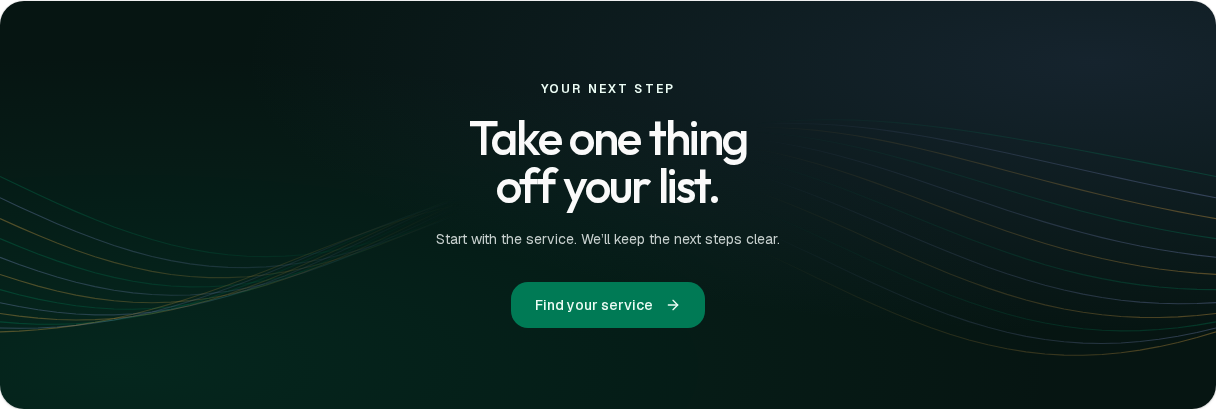
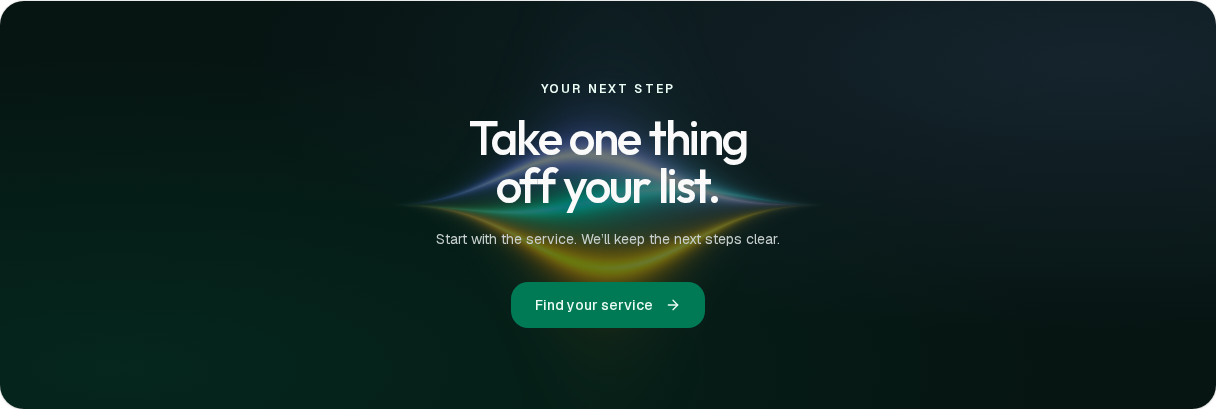
docs: audit full-stack requirements and record component acceptance

diff --git a/docs/full-stack-review.md b/docs/full-stack-review.md
@@ -1,0 +1,92 @@
+# Full-stack delivery review
+
+Reviewed 10 October 2026 against all three official frontend files and all four
+official backend files, then compared with the current repositories and recorded
+hosted acceptance. This is a completion review, not a claim of a fresh full-suite
+browser run or a submitted deliverable.
+
+## Sources and interpretation
+
+- [Frontend overview and mandatory rules](https://github.com/Apollo-Level2-Web-Dev/B7A7/blob/main/README.md)
+- [Frontend detailed requirements](https://github.com/Apollo-Level2-Web-Dev/B7A7/blob/main/project-requirements.md)
+- [Frontend delivery timeline](https://github.com/Apollo-Level2-Web-Dev/B7A7/blob/main/timeline-breakdown.md)
+- [Backend mandatory rules](https://github.com/Apollo-Level2-Web-Dev/B7A6/blob/main/README.md)
+- [Backend detailed requirements](https://github.com/Apollo-Level2-Web-Dev/B7A6/blob/main/project_requirements.md)
+- [Domain idea hub](https://github.com/Apollo-Level2-Web-Dev/B7A6/blob/main/idea-hub.md)
+- [Backend delivery timeline](https://github.com/Apollo-Level2-Web-Dev/B7A6/blob/main/timeline-breakdown.md)
+
+Student-ID digit 7 selects Field Service Management in both projects. The implemented
+request → review → qualified dispatch → visit progress → completion/report → immutable
+invoice → verified payment → feedback workflow matches that domain. Exactly three
+roles remain CUSTOMER, TECHNICIAN and ADMIN; the idea hub's additional users and
+features are suggestions. Manager/finance duties belong to ADMIN.
+
+Use the detailed rule of **at least 18 functional pages**, despite its conflicting
+15-page heading. Use the backend README's **5–10 minute API video** requirement,
+despite its timeline's 3–5 minute item. The frontend explicitly accepts real
+SSLCommerz test mode. File uploads are conditional on an implemented domain need;
+attachments, notifications, earnings and additional login roles are not automatically
+required by the idea hub.
+
+## Implemented evidence
+
+| Requirement               | Actual implementation and verification                                                                                                                                                                |
+| ------------------------- | ----------------------------------------------------------------------------------------------------------------------------------------------------------------------------------------------------- |
+| Functional page count     | 31 actual `page.tsx` route templates, including two payment returns; record multiplicity and utility boundaries do not inflate the count                                                              |
+| Domain APIs               | 39 domain APIs, two health routes and one provider browser-return template; the backend documentation checker matches 46 examples against all 42 routes                                               |
+| Meaningful history        | More than 20 actual commits in each repository; reviewed counts before this document were frontend 73 and backend 94                                                                                  |
+| Framework and composition | Next.js App Router, strict TypeScript, Server Components for reads/composition and Client Components for interactions; feature modules and shared infrastructure                                      |
+| UI and responsiveness     | Tailwind, preset shadcn/Base UI, responsive role workspaces, real navigation anchors, supported dialogs/toasts, light/dark and reduced-motion behavior                                                |
+| Authentication            | Email/password and provider-verified Google; opaque HttpOnly/Secure sessions, isolated encrypted Redis tokens, coordinated refresh, server-side current-role/ownership checks for reads and mutations |
+| Evaluation access         | Three protected server-side demo logins, actual role destinations and confirmed logout; dedicated administrator credentials remain private                                                            |
+| Data and state            | Real versioned API operations, Axios same-origin dashboard transport, identity-scoped TanStack Query and Zustand layout preferences; no fake operational statistics                                   |
+| Lists and reporting       | Real URL-driven search/filter/sort/pagination, empty states, Recharts status reporting, exact verified revenue and audit history                                                                      |
+| Domain forms              | React Hook Form/Zod for authentication, profile, request wizard/edit, review/dispatch, completion, checkout, feedback, catalog, access and skills writes; strict server boundaries                    |
+| Payment reliability       | Real SSLCommerz sandbox cancellation/replacement and provider-verified settlement, immutable invoices/feedback, idempotency and explicit uncertain-outcome inspection                                 |
+| Backend engineering       | NestJS with Express adapter, PostgreSQL/Prisma, role guards, Zod pipes, Argon2, Helmet/CORS, throttling, soft deletion, audit logs, indexes and transactional scheduling/payment constraints          |
+| Documentation and hosting | Professional reciprocal READMEs, public repositories, live Vercel frontend/Render API, complete importable Postman collection and endpoint guide                                                      |
+| Automated verification    | Frontend CI checks all 185 tests including Redis and the default production build; backend current CI passes 129 unit/474 integration tests, compiled HTTP and documentation checks                   |
+
+This audit reran backend unit tests and documentation coverage successfully. It did
+not rerun all backend database integration tests; their current exact-revision proof
+is [CI 37940326850](https://github.com/rafiferdos/fieldops-api/actions/runs/37940326850).
+The published liveness and readiness endpoints both return HTTP 200 with a successful
+envelope. Final hosted login/protection/cookie and dashboard/confirmed-logout checks
+pass for all three roles (6/6, 3.2 minutes).
+Google production login remains owner-verified. Current effects/release verification
+is recorded in [React Bits integration](react-bits.md).
+
+## Remaining conformance work
+
+1. **Route preflight:** protected pages and every action already enforce current
+   server authentication/role checks, but no `proxy.ts`/`middleware.ts` entry exists.
+   The frontend requirements explicitly request that convention. Add a lightweight
+   Next.js 16 Proxy preflight without trusting an opaque cookie as proof of a role
+   or moving slow backend authorization into Proxy.
+2. **Public catalog loading:** workspaces inherit a shared `loading.tsx`, auth has
+   its own loader and the homepage catalog has a Suspense skeleton. Public catalog
+   list/detail routes currently have no inherited `loading.tsx`; add that boundary.
+3. **All-form consistency:** seven read-only filter forms intentionally use native
+   GET submissions and server Zod parsing. They preserve URL/history behavior, but
+   do not use React Hook Form, and no `useSearchParams` hook is currently used.
+   Convert those small form boundaries while retaining server reads and bookmarkable
+   URLs. Cancellation also collects its reason without a React Hook Form boundary.
+   This is a literal requirement gap, not a claim that all business inputs are unvalidated.
+4. **Walkthrough coverage:** the existing local MP4 is an actual 6:19 captioned UI
+   workflow recording. It is older than the current design and does not fully
+   demonstrate the mandatory architecture, Network/caching and API-error checklist.
+   No separate complete backend Postman/API walkthrough is present. Complete the
+   required explanation coverage; a duration match alone is insufficient.
+5. **Submission:** upload an accessible approved video, provide the dedicated demo
+   administrator credentials privately, and submit the exact official portal
+   template. Neither video upload nor portal submission has occurred.
+
+The frontend README publishes **10 October 2026 at 11:59 PM** with no extended late
+deadline. The backend's published deadlines are historical; this review does not
+assert an extension or acceptance. Core product workflows are implemented, but the
+gaps above mean that full delivery completion must not yet be claimed.
+
+Real Safari/mobile GPU hardware, a complete manual accessibility audit and field
+performance are separate verification limits. Earlier warm-host Lighthouse numbers
+predate the new shaders and are not current measurements. Live-mode money, offline
+work and distributed failover certification are outside the demonstrated scope.

diff --git a/docs/submission-pack.md b/docs/submission-pack.md
@@ -1,25 +1,28 @@
 # Assignment 7 submission pack
 
-Reviewed October 9, 2026. Both applications are live. Exact release and acceptance
-proof is in [hosted release evidence](hosted-release.md). External video upload and
-portal submission remain separate delivery actions.
+Reviewed October 10, 2026. Both applications are live. Current component release
+proof is in [React Bits integration](react-bits.md); the earlier acceptance record
+is [hosted release evidence](hosted-release.md). The renewed
+[full-stack requirements review](full-stack-review.md) identifies remaining
+conformance and video work. This prepared pack is not a completion or submission claim.
 
 ## Project links
 
-| Artifact         | Actual reference                                                                | State                                                                               |
-| ---------------- | ------------------------------------------------------------------------------- | ----------------------------------------------------------------------------------- |
-| Frontend source  | https://github.com/rafiferdos/fieldops                                          | Current source release; inspect the selected SHA in Frontend CI                     |
-| Frontend CI      | https://github.com/rafiferdos/fieldops/actions/workflows/ci.yml                 | Exact selected revision must pass before deployment                                 |
-| Backend source   | https://github.com/rafiferdos/fieldops-api                                      | Skills/payment release 7bf1e41 deployed                                             |
-| Backend CI       | https://github.com/rafiferdos/fieldops-api/actions/runs/37908940023             | Passed for deployed 7bf1e41                                                         |
-| Backend API      | https://fieldops-api-xu3s.onrender.com/api/v1                                   | Live; health/readiness and actual current-skills routing verified                   |
-| Frontend domain  | https://fieldops-rafiferdos.vercel.app                                          | Live; deployed b03d4c4 passed CI run 37908860373                                    |
-| Requirements     | https://github.com/Apollo-Level2-Web-Dev/B7A7/blob/main/project-requirements.md | Authoritative                                                                       |
-| Backend contract | https://app.notion.com/p/3f34ab5df14481afa4acc3e9a092b940                       | Historical contract; authorized skills/browser extension documented in repositories |
+| Artifact          | Actual reference                                                                           | State                                                                               |
+| ----------------- | ------------------------------------------------------------------------------------------ | ----------------------------------------------------------------------------------- |
+| Frontend source   | https://github.com/rafiferdos/fieldops                                                     | Current source release; inspect the selected SHA in Frontend CI                     |
+| Frontend CI       | https://github.com/rafiferdos/fieldops/actions/workflows/ci.yml                            | Exact selected revision must pass before deployment                                 |
+| Backend source    | https://github.com/rafiferdos/fieldops-api                                                 | Skills/payment release 7bf1e41 deployed                                             |
+| Backend CI        | https://github.com/rafiferdos/fieldops-api/actions/runs/37940326850                        | Passed for current 1faf01a; runtime remains the deployed skills/payment release     |
+| Backend API       | https://fieldops-api-xu3s.onrender.com/api/v1                                              | Live; health/readiness and actual current-skills routing verified                   |
+| Frontend domain   | https://fieldops-rafiferdos.vercel.app                                                     | Live cd2068c; default build and all 185 checks pass CI 38024046107                  |
+| API documentation | https://github.com/rafiferdos/fieldops-api/blob/main/docs/fieldops.postman_collection.json | Complete importable collection, with a linked endpoint/workflow guide               |
+| Requirements      | https://github.com/Apollo-Level2-Web-Dev/B7A7/blob/main/project-requirements.md            | Authoritative                                                                       |
+| Backend contract  | https://app.notion.com/p/3f34ab5df14481afa4acc3e9a092b940                                  | Historical contract; authorized skills/browser extension documented in repositories |
 
 ## Requirement evidence
 
-- 29 functional route templates covering public content, catalog, authentication,
+- 31 functional route templates covering public content, catalog, authentication,
   account, owned requests/work/invoices/payments and role-scoped administration.
   Utilities and record multiplicity do not inflate the page count.
 - Three fixed roles and demo-entry buttons. New dedicated production evaluation
@@ -39,9 +42,11 @@ portal submission remain separate delivery actions.
   additionally verified hosted Google login after the supported consent update.
 - Meaningful source checkpoints are in Git history. Count actual frontend commits
   after final publishing; do not manufacture commits to meet a number.
-- A completed 6:19 actual UI walkthrough has 23 English-captioned scenes and uses
+- An existing 6:19 actual UI walkthrough has 23 English-captioned scenes and uses
   disposable local data. See [recording and reproduction](walkthrough-recording.md).
-  The artifact identifies loopback verification; external upload is pending.
+  It predates the current design and still needs the required architecture,
+  Network/caching and error-explanation coverage. A separate backend API walkthrough,
+  external upload and portal submission remain pending.
 
 ## Private evaluation information
 

diff --git a/docs/react-bits.md b/docs/react-bits.md
@@ -41,7 +41,8 @@ Necessary application integration is deliberately limited:
 - shadcn Dialog and Sheet own focus trapping, Escape, scroll locking and return focus.
 - Continuous pointer/keyboard holds complete once; release, capture loss, blur or
   backgrounding cancels confirmation. A click alone cannot sign out. The visual
-  hidden hint has an explicit accessible button label.
+  hidden hint has an explicit accessible button label. React's Effect Event keeps
+  the latest completion callback without restarting a hold on parent renders.
 - Feedback remains a controlled, keyboard-operable 1–5 rating. Disabled and uncertain
   submission states cannot replay the immutable feedback write.
 - Real hero text reserves identical word spacing before, during and after animation.
@@ -88,3 +89,39 @@ actual WebGL context loss. These counts exclude the provider settlement regressi
 The initial localhost provider run timed out with its disposable payment still
 PENDING. Inspection confirmed no settlement; it is not recorded as a payment pass.
 Hosted settlement/rating acceptance is a separate release gate.
+
+## Hosted release checkpoint
+
+All requested applicable effects are deployed. CodeSlots remains conditional on a
+real email-code API; the current contract provides no such flow. The source keeps
+the original HoldButton appearance and unboxed BranchedMenu navigation anchors.
+
+The first hosted run on `2dc125b` passed 26 of 28 scenarios in 7.6 minutes. One
+failure involved the automated pointer target moving while GSAP settled after a
+native scroll; the driver now uses native wheel input and waits for the transformed
+surface. Its complete real sandbox/rating scenario subsequently passed in 41.3
+seconds, including cancellation, replacement, verified settlement, arrow/pointer
+rating, automated accessibility and immutable feedback recovery. No callback was
+forged or live funds used. The other failure involved the Customer's continuous
+hold after cancel/reopen; it was not recorded as a pass.
+
+A separate real-browser component comparison reproduced a callback-rerender bug:
+the old source reset the held button to idle with zero completions; the correction
+completed exactly once using the latest callback. A focused actual Customer demo
+navigation/cancel/reopen probe also passed without business-record changes.
+
+The final runtime revision is `cd2068c34bb8ceb807d618f95085fa060123481e`.
+[CI 38024046107](https://github.com/rafiferdos/fieldops/actions/runs/38024046107)
+passes all 185 tests, formatting, strict types, lint and the default production
+build. Vercel production deployment `dpl_FfFqAN3R8dQV55sC1FUxpjKJJued` is READY.
+Local strict checks pass with 179 tests and six Redis skips; the supported webpack
+build also passes. This resumed execution environment blocks the Turbopack worker's
+local port, so its local default-build failure is not represented as a pass.
+
+On the final canonical hosted revision, all six focused real-role scenarios pass
+in 3.2 minutes with retries disabled: three role/cookie/protection checks and three
+live-count/navigation/cancel/reopen/continuous-hold checks. The Customer's previous
+failure now passes. The initial 28-scenario run and later focused results retain
+separate provenance; this is not a claim of one all-passing full 28-scenario run.
+The final hosted public composition capture also passes (1/1, 8.4 seconds), saving
+actual hero, crystal, Strands and mobile-menu images outside Git in `../delivery/`.

diff --git a/README.md b/README.md
@@ -285,7 +285,7 @@ See the [deployment runbook](docs/deployment-runbook.md) for configuration and r
 - Text status labels and count summaries; color and chart geometry are supplementary.
 - Server-rendered readable content, reserved image geometry and small interactive boundaries.
 
-![FieldOps closing action with a readable ambient wave backdrop](docs/images/home-coordination.png)
+![FieldOps closing action with the theme-matched Strands effect](docs/images/home-coordination.png)
 
 Automated Chromium/axe checks do not replace testing on actual mobile hardware or Safari.
 Free backend hosting can introduce cold-start latency. Current runtime dependencies passed
@@ -298,6 +298,7 @@ Offline operation, live funds and distributed failover certification are outside
 - [Dashboard scrolling, animation lifecycle and current release](docs/dashboard-motion.md)
 - [Home materials, React Bits adaptations and animation limits](docs/home-materials.md)
 - [Requested components, placements, original appearance and verification](docs/react-bits.md)
+- [Full-stack delivery review and remaining work](docs/full-stack-review.md)
 - [Role, route and API map](docs/route-plan.md)
 - [Session-safe dashboard and technology decisions](docs/workspace-upgrade.md)
 - [Dispatch and execution rules](docs/dispatch-execution-plan.md)
